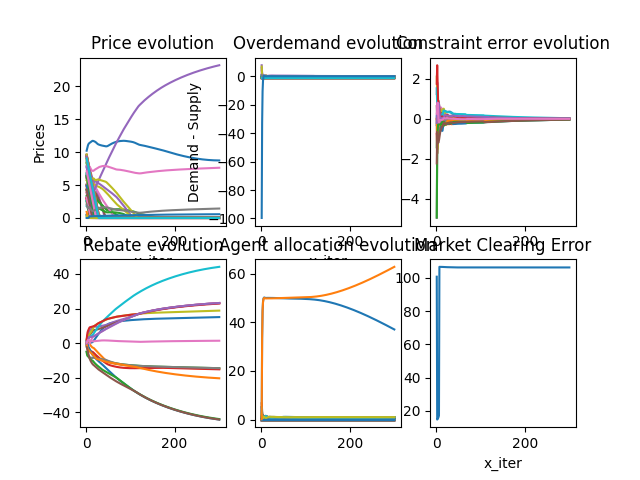
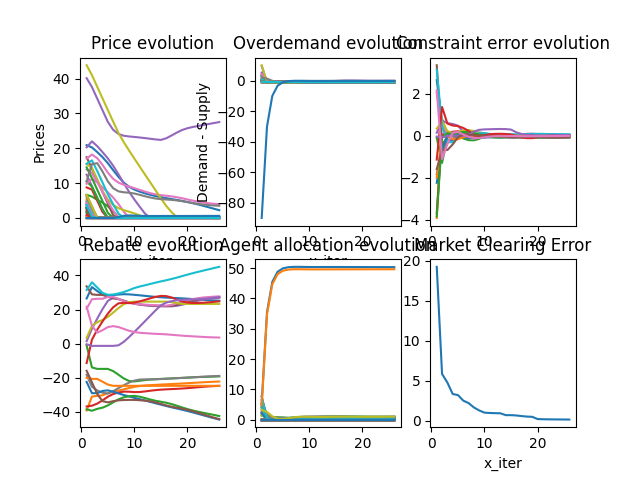
stopping criteria added

diff --git a/ic/fisher_allocation.py b/ic/fisher_allocation.py
@@ -12,6 +12,9 @@ import math
 
 
 UPDATED_APPROACH = True
+TOL_ERROR = 1e-2
+MAX_NUM_ITERATIONS = 100
+BETA = 10
 
 
 def build_graph(vertiport_status, timing_info):
@@ -131,7 +134,7 @@ def construct_market(market_graph, flights, timing_info):
 
         supply = np.ones(len(goods_list))
         supply[-1] = 100
-        beta = 10
+        beta = BETA
 
     print(f"Time to construct market: {time.time() - start_time_market_construct}")
     return (u, agent_constraints, agent_goods_lists), (w, supply, beta), (goods_list, times_list)
@@ -365,12 +368,12 @@ def run_market(initial_values, agent_settings, market_settings, bookkeeping, plo
     error = [] * len(agent_constraints)
     
     # Algorithm 1
-    TOL_ERROR = 1e-2
     tolerance = len(agent_settings[0]) * np.sqrt(len(supply)-1) * TOL_ERROR
-    market_clearning_error = 1000000
+    market_clearing_error = float('inf')
     x_iter = 0
     start_time_algorithm = time.time()
-    while x_iter <= 100:  # max(abs(np.sum(opt_xi, axis=0) - C)) > epsilon:
+
+    while x_iter <= 100:
         # Update agents
         x = update_agents(w, u, p, r, agent_constraints, goods_list, agent_goods_lists, y, beta, rational=rational)
         agent_allocations.append(x)
@@ -378,8 +381,8 @@ def run_market(initial_values, agent_settings, market_settings, bookkeeping, plo
         x_ij = np.sum(x, axis=0)
         excess_demand = x_ij[:-1] - supply[:-1]
         clipped_excess_demand = np.where(p[:-1] > 0,excess_demand, np.maximum(0, excess_demand))
-        market_clearning_error = np.linalg.norm(clipped_excess_demand, ord=2)
-        market_clearing.append(market_clearning_error)
+        market_clearing_error = np.linalg.norm(clipped_excess_demand, ord=2)
+        market_clearing.append(market_clearing_error)
 
         for agent_index in range(len(agent_constraints)):
             agent_x = np.array([x[agent_index, goods_list.index(good)] for good in agent_goods_lists[agent_index]])
@@ -395,7 +398,11 @@ def run_market(initial_values, agent_settings, market_settings, bookkeeping, plo
         prices.append(p)
         x_iter += 1
         print("Iteration: ", x_iter)
-        print("Market Clearing Error: ", market_clearning_error)
+        print("Market Clearing Error: ", market_clearing_error)
+    
+        if market_clearing_error <= tolerance:
+            break
+
     print(f"Time to run algorithm: {time.time() - start_time_algorithm}")
 
     if plotting:
@@ -489,7 +496,8 @@ if __name__ == "__main__":
     y = np.random.rand(num_agents, num_goods)*10
     p = np.random.rand(num_goods)*10
     r = [np.zeros(len(agent_constraints[i][1])) for i in range(num_agents)]
-    x, prices, r, overdemand, agent_constraints = run_market((y,p,r), agent_information, market_information, bookkeeping, plotting=True, rational=False)
+    x, prices, r, overdemand, agent_constraints = run_market((y,p,r), agent_information, market_information, 
+                                                             bookkeeping, plotting=True, rational=False, output_folder=output_folder)
 
     # Sampling fractional edges
     edge_information = build_edge_information(goods_list)
